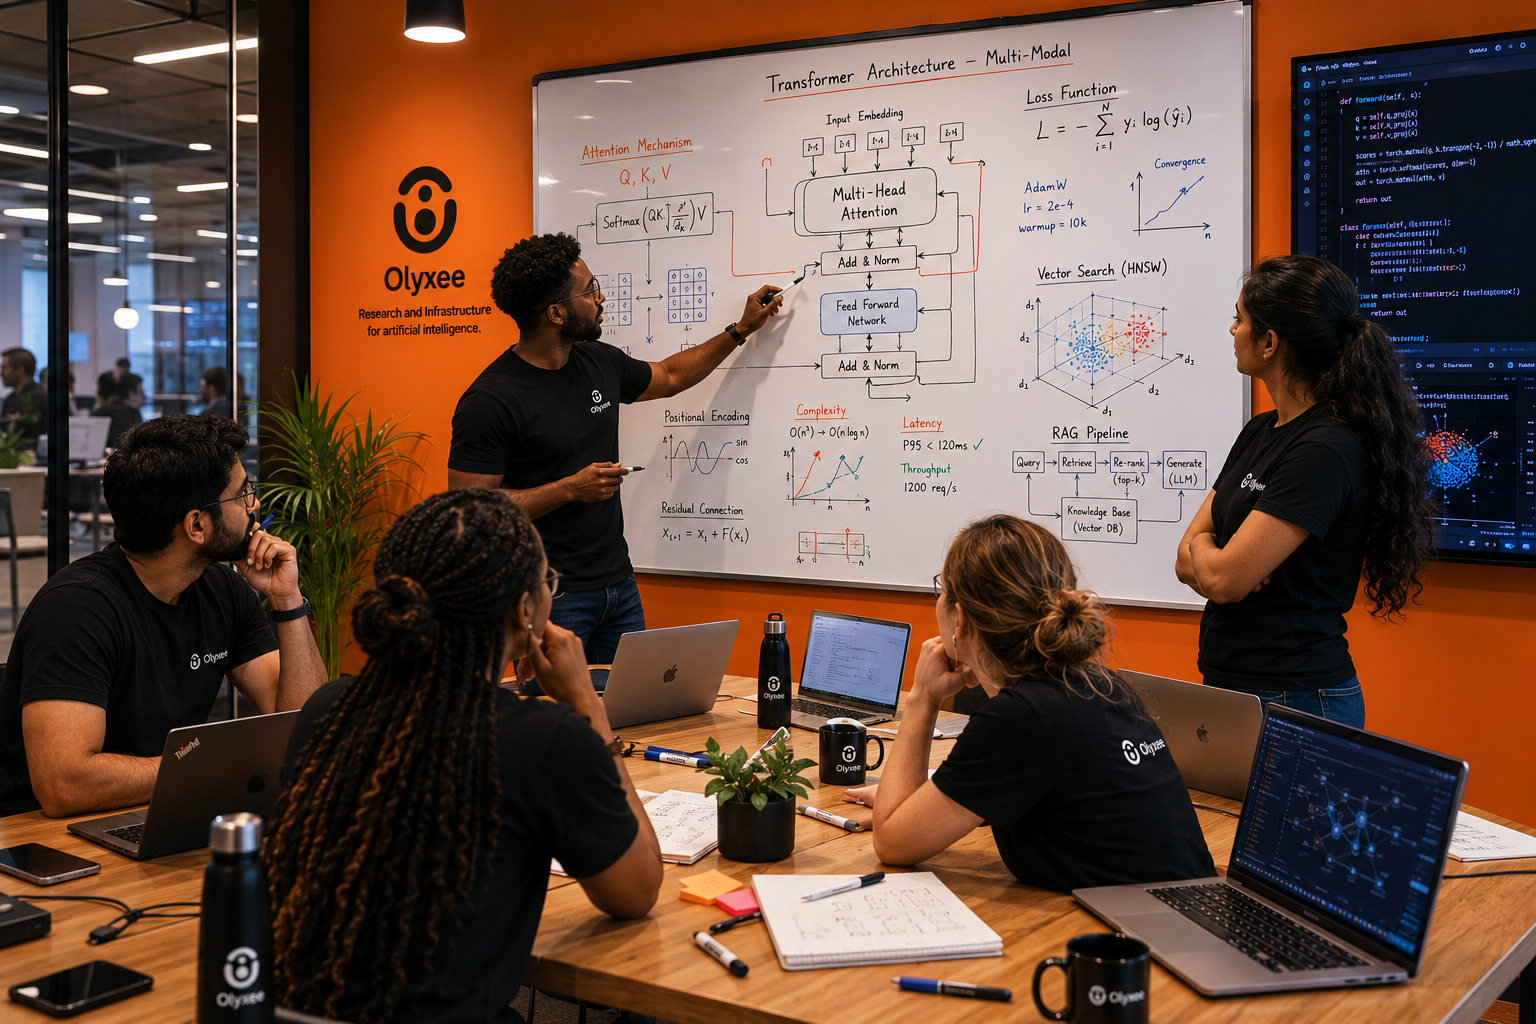
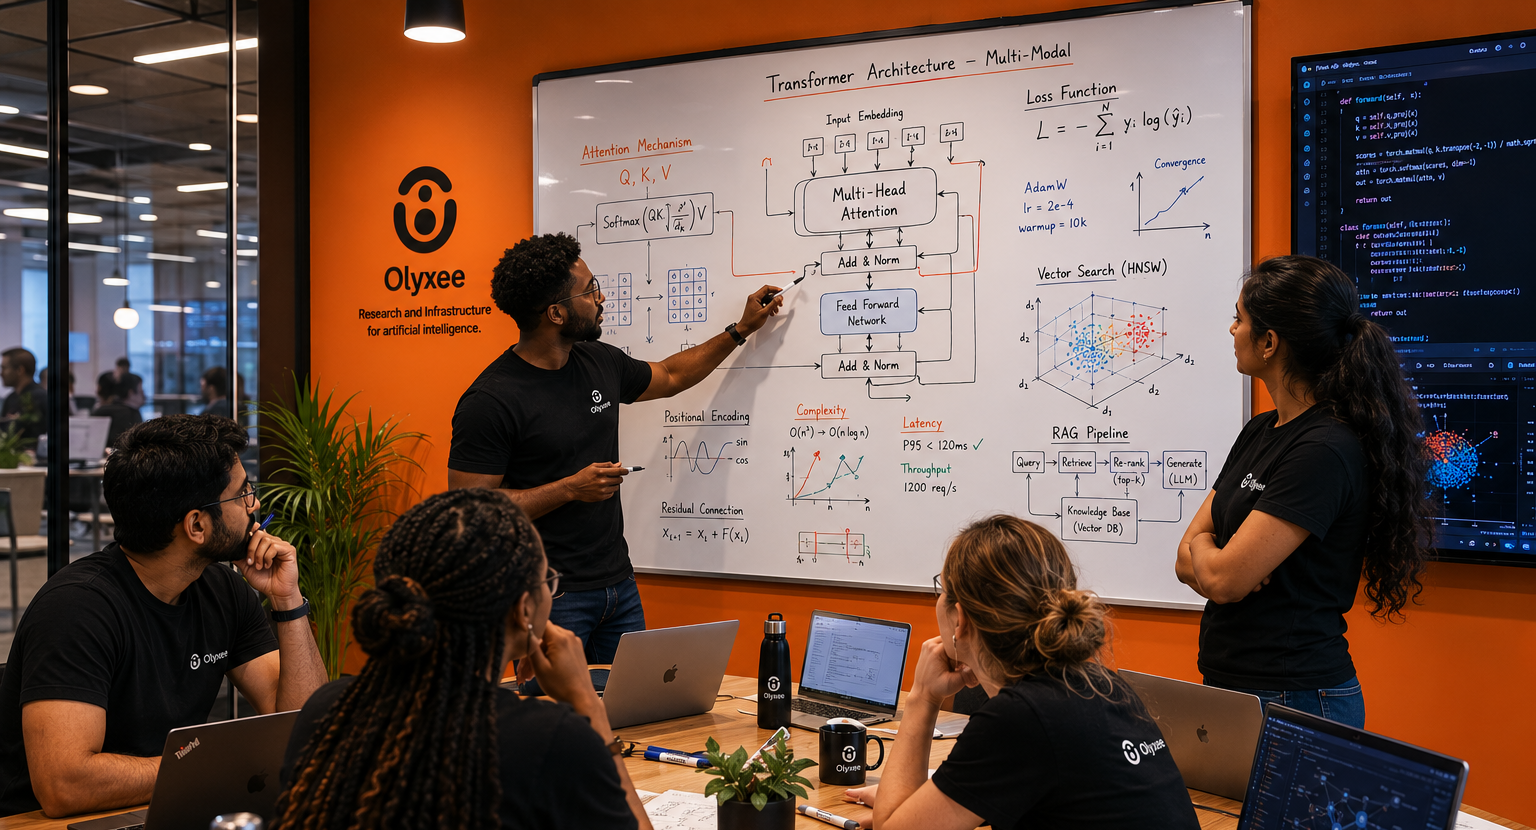
Improve careers page image by cropping and adjusting display
Crop the careers hero image to remove visual artifacts and update CSS for better display.

Replit-Commit-Author: Agent
Replit-Commit-Session-Id: 320ee662-73cd-4563-9d92-cab2fc5a1ce2
Replit-Commit-Checkpoint-Type: full_checkpoint
Replit-Commit-Event-Id: 40fa0b15-5ad0-4ce3-83ab-f97f2a146ba7
Replit-Commit-Screenshot-Url: https://storage.googleapis.com/screenshot-production-us-central1/d6f49deb-1896-4ff4-95d8-d5332244cfc5/320ee662-73cd-4563-9d92-cab2fc5a1ce2/RKlJ9U7
Replit-Helium-Checkpoint-Created: true

diff --git a/src/pages/careers.tsx b/src/pages/careers.tsx
@@ -28,7 +28,7 @@ function HeroSection() {
             fill
             priority
             sizes="100vw"
-            className="object-contain object-center"
+            className="object-cover object-top"
           />
         </motion.div>
 
